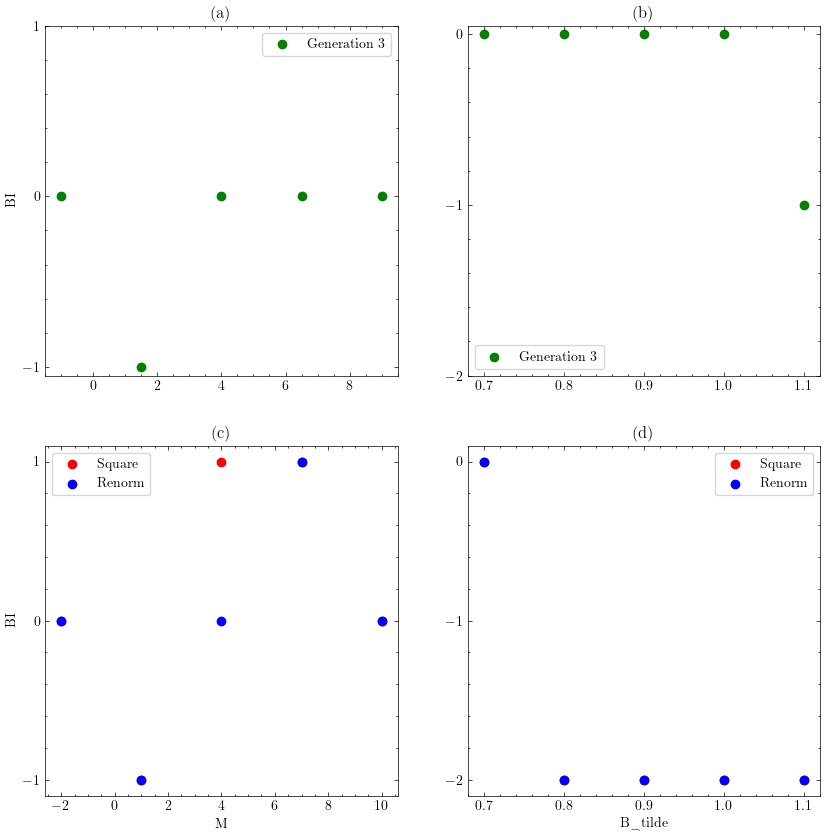
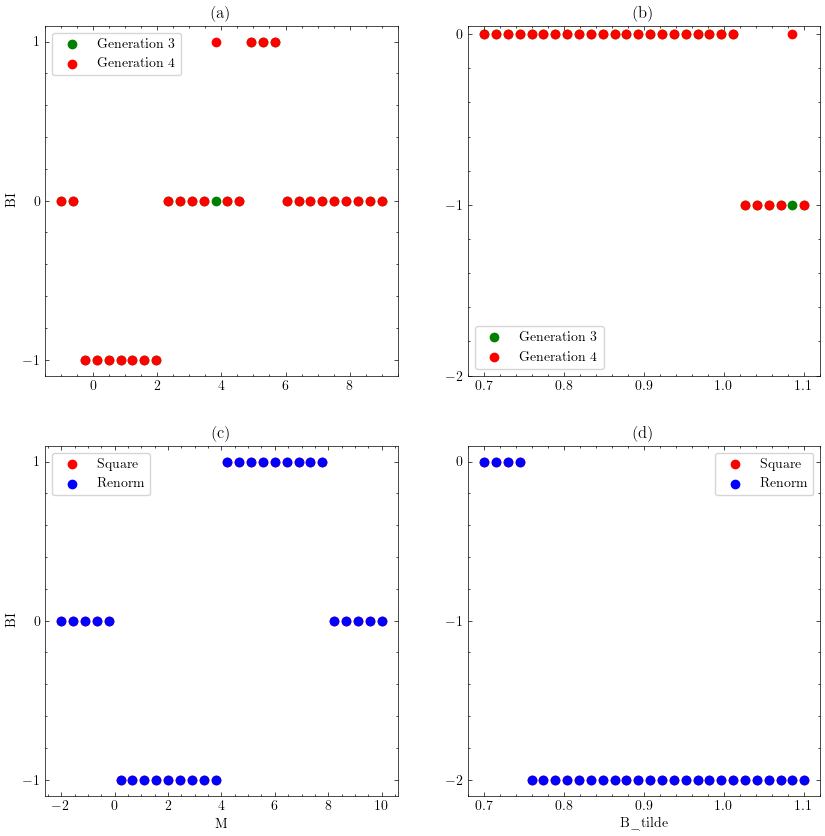
initial method to compute FIG 3

diff --git a/Project_1/paper_figures.py b/Project_1/paper_figures.py
@@ -1,16 +1,18 @@
 import numpy as np
 from matplotlib import pyplot as plt
-import scienceplots
-from project_dependencies import bott_index, precompute, Hamiltonian_reconstruct, projector_exact
+from project_dependencies import bott_index, precompute, Hamiltonian_reconstruct, projector_exact, remap_LDOS, LDOS, spectral_gap
 from joblib import Parallel, delayed
 from itertools import product
+import ProjectCode_1.PhaseDiagram.PhaseDiagramDependencies as dsd
+import ProjectCode_1.ComputeBottIndex as dsb
 
-plt.style.use(['science', 'pgf'])
+import sys
+if sys.version_info[1] > 9:
+    import scienceplots
+    plt.style.use(['science', 'pgf'])
 
 
-
-
-def FIG_2_data(method:str, M_vals:float, B_tilde_vals:float, order:int=None, n:int=None, t1:float=1, t2:float=1, B:float=1, num_jobs:int=4) -> np.ndarray:
+def compute_bott_range(method:str, M_vals:float, B_tilde_vals:float, order:int=None, n:int=None, t1:float=1, t2:float=1, B:float=1, num_jobs:int=4) -> np.ndarray:
 
 
     params = tuple(product(M_vals, B_tilde_vals))
@@ -27,18 +29,33 @@ def FIG_2_data(method:str, M_vals:float, B_tilde_vals:float, order:int=None, n:i
     return data
     
 
+def compute_bott_range(method:str, M_vals:float, B_tilde_vals:float, order:int=None, n:int=None, t1:float=1, t2:float=1, B:float=1, num_jobs:int=4) -> np.ndarray:
 
 
-def compute(num_jobs:int=28, resolution:int=10, doOrderFour:bool=False, doSave:bool=False):
+    params = tuple(product(M_vals, B_tilde_vals))
+
+    def find_bott(M:float, B_tilde:float) -> tuple:
+        pre_data, lattice = dsd.precompute_data(order, method, True, n, 0, t1, t2, B)
+        H = dsd.reconstruct_hamiltonian(method, pre_data, M, B_tilde, sparse=False)
+        P = dsb.projector_exact(H, 0.0)
+        bott = dsb.bott_index(P, lattice)
+
+        return (M, B_tilde, bott)
+    
+    data = np.array(Parallel(n_jobs=num_jobs)(delayed(find_bott)(params[j][0], params[j][1]) for j in range(len(params)))).T
+    return data
+
+
+def compute_FIG2(num_jobs:int=28, resolution:int=10, doOrderFour:bool=False, doSave:bool=False):
     
     # a:
     # Order 3, 4 : symmetry
     # t1 = B = 1
     # t2 = B_tilde = 0
     # M : [-1, 9]
-    data_a_3 = FIG_2_data('symmetry', np.linspace(-1, 9, resolution), [0], 3, 2, 1, 0, 1, num_jobs)
+    data_a_3 = compute_bott_range('symmetry', np.linspace(-1, 9, resolution), [0], 3, 2, 1, 0, 1, num_jobs)
     if doOrderFour:
-        data_a_4 = FIG_2_data('symmetry', np.linspace(-1, 9, resolution), [0], 4, 2, 1, 0, 1, num_jobs)
+        data_a_4 = compute_bott_range('symmetry', np.linspace(-1, 9, resolution), [0], 4, 2, 1, 0, 1, num_jobs)
         data_a = (data_a_3, data_a_4)
     else:
         data_a = (data_a_3, None)
@@ -50,9 +67,9 @@ def compute(num_jobs:int=28, resolution:int=10, doOrderFour:bool=False, doSave:b
     # t2 = 1
     # M = 10
     # B_tilde : [0.7, 1.1]
-    data_b_3 = FIG_2_data('symmetry', [10], np.linspace(0.7, 1.1, resolution), 3, 2, 1, 1, 1, num_jobs)
+    data_b_3 = compute_bott_range('symmetry', [10], np.linspace(0.7, 1.1, resolution), 3, 2, 1, 1, 1, num_jobs)
     if doOrderFour:
-        data_b_4 = FIG_2_data('symmetry', [10], np.linspace(0.7, 1.1, resolution), 4, 2, 1, 1, 1, num_jobs)
+        data_b_4 = compute_bott_range('symmetry', [10], np.linspace(0.7, 1.1, resolution), 4, 2, 1, 1, 1, num_jobs)
         data_b = (data_b_3, data_b_4)
     else:
         data_b = (data_b_3, None)
@@ -63,8 +80,8 @@ def compute(num_jobs:int=28, resolution:int=10, doOrderFour:bool=False, doSave:b
     # t1 = B = 1
     # t2 = B_tilde = 0
     # M : [-2, 10]
-    data_c_renorm = FIG_2_data('renorm', np.linspace(-2, 10, resolution), [0], 3, None, 1, 0, 1, num_jobs)
-    data_c_square = FIG_2_data('square', np.linspace(-2, 10, resolution), [0], 3, None, 1, 0, 1, num_jobs)
+    data_c_renorm = compute_bott_range('renorm', np.linspace(-2, 10, resolution), [0], 3, None, 1, 0, 1, num_jobs)
+    data_c_square = compute_bott_range('square', np.linspace(-2, 10, resolution), [0], 3, None, 1, 0, 1, num_jobs)
     data_c = (data_c_square, data_c_renorm)
     print('Finished: c')
 
@@ -74,8 +91,8 @@ def compute(num_jobs:int=28, resolution:int=10, doOrderFour:bool=False, doSave:b
     # t2 = 1
     # M = 10
     # B : [0.7, 1.1] 
-    data_d_renorm = FIG_2_data('renorm', [10], np.linspace(0.7, 1.1, resolution), 3, None, 1, 1, 1, num_jobs)
-    data_d_square = FIG_2_data('square', [10], np.linspace(0.7, 1.1, resolution), 3, None, 1, 1, 1, num_jobs)
+    data_d_renorm = compute_bott_range('renorm', [10], np.linspace(0.7, 1.1, resolution), 3, None, 1, 1, 1, num_jobs)
+    data_d_square = compute_bott_range('square', [10], np.linspace(0.7, 1.1, resolution), 3, None, 1, 1, 1, num_jobs)
     data_d = (data_d_square, data_d_renorm)
     print('Finished: d')
 
@@ -137,14 +154,75 @@ def plot_FIG2(data_a, data_b, data_c, data_d):
     plt.show()
 
 
+def spectral_gap_range(method, M_vals, B_tilde_vals, order, pbc=True, n=None, t1=1.0, t2=1.0, B=1.0, num_jobs=4):
+
+    params = tuple(product(M_vals, B_tilde_vals))
+
+    def do_single(M, B_tilde):
+
+        pre_data, lattice = precompute(method, order, 0, pbc, n, t1, t2, B)
+        H = Hamiltonian_reconstruct(method, pre_data, M, B_tilde, False)
+        G = spectral_gap(H)
+
+        return [M, G]
+
+    data = np.array(Parallel(n_jobs=num_jobs)(delayed(do_single)(params[j][0], params[j][1]) for j in range(len(params)))).T
+    return data
+
+
+
+def compute_FIG3():
+    
+
+    # t1 = B = 1
+    # t2 = B_tilde = 0
+    # order = 4
+    # both pbc and obc
+
+    # a : square
+    # b : renorm
+    # c : symmetry
+    # d : site elim
+
+    # x-axis : M varies on [-2.0, 10.0]
+    # y-axis : G varies on [0.0, (4.0, 4.5, 5.0)] 
+
+    
+    method_list = ['square', 'renorm', 'symmetry', 'site_elim']
+    title_list = ['(a)', '(b)', '(c)', '(d)']
+    order = 3; n = 2; num_jobs = 28
+    M_values = np.linspace(-2.0, 10.0, 28); B_tilde_values = [0]
+    t1 = 1.0; t2 = 0.0; B = 1.0
+
+    fig, axs = plt.subplots(2, 2, figsize=(10, 10))
+
+    for i in range(2):
+        for j in range(2):
+            data_pbc = spectral_gap_range(method_list[2*i+j], M_values, B_tilde_values, order, True, n, t1, t2, B, num_jobs)
+            data_obc = spectral_gap_range(method_list[2*i+j], M_values, B_tilde_values, order, False, n, t1, t2, B, num_jobs)
+
+            axs[i, j].scatter(data_pbc[0, :], data_pbc[1, :], label='pbc', c='black')
+            axs[i, j].scatter(data_obc[0, :], data_obc[1, :], label='obc', c='red')
+
+            axs[i, j].set_xticks([-2.0, 1.0, 4.0, 7.0, 10.0])
+            axs[i, j].set_yticks([0.0, 2.5, 5.0])
+
+            axs[i, j].set_title(title_list[2*i+j])
+    
+    axs[0, 0].set_ylabel("G")
+    axs[1, 0].set_ylabel("G")
+    axs[1, 0].set_xlabel("M")
+    axs[1, 1].set_xlabel("M")
+
+
 
 # Main function implementation------------------
 
-def main():
-    data_a, data_b, data_c, data_d = compute(4, 10, False, True)
+def FIG2_main():
+    data_a, data_b, data_c, data_d = compute_FIG2(28, 28, True, True)
     plot_FIG2(data_a, data_b, data_c, data_d)
 
-def main2():
+def FIG2_main2():
     file_data = np.load('FIG_2_data.npz', allow_pickle=True)
     data_a = (file_data['data_a_3'], file_data['data_a_4'])
     data_b = (file_data['data_b_3'], file_data['data_b_4'])
@@ -153,7 +231,36 @@ def main2():
 
     plot_FIG2(data_a, data_b, data_c, data_d)
 
+def FIG3_main():
+    method = 'site_elim'; order = 3; pbc = True
+    pre_data, lattice = precompute(method, order, 0, pbc, 2, 1, 0, 1)
+    H = Hamiltonian_reconstruct(method, pre_data, 2.5, 0.0, False)
 
+    P = projector_exact(H, 0.0)
+    bott = bott_index(P, lattice)
+    print(f"Bott Index = {bott:.0f}")
+
+    local_density = LDOS(H)
+
+    fills = np.argwhere(lattice >= 0)
+
+    LDOS_lattice = np.full(lattice.shape, 0.0)
+    LDOS_lattice[fills[:, 0], fills[:, 1]] = local_density
+
+
+    fig = plt.figure(figsize=(10, 10))
+    plt.scatter(np.arange(local_density.size), local_density)
+    plt.show()
+
+
+    fig = plt.figure(figsize=(10, 10))
+    plt.imshow(LDOS_lattice, cmap='jet')
+    plt.colorbar()
+    plt.title(f"{method}, order = {order}, pbc = {pbc}")
+    plt.show()
+
+def FIG3_main2():
+    compute_FIG3()
 
 if __name__ == "__main__":
-    main()
+    FIG3_main2()

diff --git a/Project_1/project_dependencies.py b/Project_1/project_dependencies.py
@@ -8,7 +8,7 @@ sys.path.append(".")
 import numpy as np
 import scipy.sparse as sparse
 from scipy.sparse import csr_matrix, diags, dok_matrix, eye
-from scipy.linalg import eigh, logm, eig, eigvals
+from scipy.linalg import eigh, logm, eig, eigvalsh, eigvals
 from scipy.sparse.linalg import cg, eigsh
 import matplotlib.pyplot as plt
 
@@ -347,7 +347,7 @@ def decompose(H:np.ndarray, fills:np.ndarray, holes:np.ndarray) -> tuple:
     return H_aa, H_bb, H_ab, H_ba
 
 
-def decompose_parts(wannier:tuple, holes:np.ndarray, fills:np.ndarray) -> tuple:
+def decompose_parts(wannier:tuple, holes:np.ndarray, fills:np.ndarray , t1:float=1.0, t2:float=1.0, B:float=1.0) -> tuple:
     """
     Decompose the components of the Hamiltonian
 
@@ -362,7 +362,7 @@ def decompose_parts(wannier:tuple, holes:np.ndarray, fills:np.ndarray) -> tuple:
     B_tilde_parts
     """
 
-    H_0, M_hat, B_tilde_hat = Hamiltonian_components(wannier, sparse=False)
+    H_0, M_hat, B_tilde_hat = Hamiltonian_components(wannier, t1, t2, B, sparse=False)
     H_0_parts         = decompose(H_0,         fills, holes)
     M_hat_parts       = decompose(M_hat,       fills, holes)
     B_tilde_hat_parts = decompose(B_tilde_hat, fills, holes)
@@ -438,7 +438,7 @@ def precompute(method:str, order:int, pad_width:int, pbc:bool, n:int, t1=1, t2=1
         return H_components, sq_lat
     elif method == "site_elim":
         wannier = wannier_fourier(sq_lat, pbc=pbc)
-        parts_groups = decompose_parts(wannier, holes, fills)
+        parts_groups = decompose_parts(wannier, holes, fills, t1=t1, t2=t2, B=B)
         H_components = []
         for parts_group in parts_groups:
             H_components.append(csr_matrix(parts_group[0]))
@@ -446,7 +446,7 @@ def precompute(method:str, order:int, pad_width:int, pbc:bool, n:int, t1=1, t2=1
         return H_components, frac_lat
     elif method == "renorm":
         wannier = wannier_fourier(sq_lat, pbc=pbc)
-        parts_groups = decompose_parts(wannier, holes, fills)
+        parts_groups = decompose_parts(wannier, holes, fills, t1=t1, t2=t2, B=B)
         return parts_groups, frac_lat
 
 
@@ -652,20 +652,51 @@ def bott_index(P:np.ndarray, lattice:np.ndarray) -> float:
     return bott
 
 
-def LDOS(Hamiltonian:np.ndarray, eig_index:int=0) -> np.ndarray:
+def LDOS(Hamiltonian:np.ndarray) -> np.ndarray:
 
-    eigvals, eigvecs = eig(Hamiltonian)
+    # Get eigenvalues, eigenvectors
+    eigvals, eigvecs = eigh(Hamiltonian)
 
-    eigvec = eigvecs[eig_index, :]
+    # Index of lowest eigenvalue
+    idx = np.argmin(np.abs(eigvals))
+
+    # Respective eigenvalue
+    eigvec = eigvecs[:, idx]
+    
+    # |v|^2
     eigvec = np.power(np.abs(eigvec), 2)
 
-    summed_pairwise = np.empty(eigvec.size//2)
+    # Sum pairwise
+    local_density = eigvec[0::2] + eigvec[1::2]
 
-    summed_pairwise = eigvec[::2] + eigvec[1::2]
-
-    return summed_pairwise
+    return local_density
 
 
+def spectral_gap(Hamiltonian):
+    
+    eigvals = eigvalsh(Hamiltonian, overwrite_a=True)
+
+    idxs = np.argsort(np.abs(eigvals))
+    first, second = eigvals[idxs[0]], eigvals[idxs[1]]
+    G = first - second
+    return np.abs(G)
+
+
+    
+
+
+def remap_LDOS(local_density, lattice):
+    
+    if np.max(lattice)+1 != local_density.size:
+        raise ValueError(f'Sizes of inputs do not match. Sizes {np.max(lattice)+1} and {local_density.size}')
+    
+
+    fig = plt.figure(figsize=(10, 10))
+
+
+    
+    
+    
 
 
 #-------main function implementation-----------------
@@ -681,7 +712,7 @@ def main():
 
     number = pairwise.size
 
-    plt.plot(np.linspace(0, number, number), pairwise)
+    plt.scatter(np.linspace(0, number, number), pairwise)
     plt.show()
 
 
